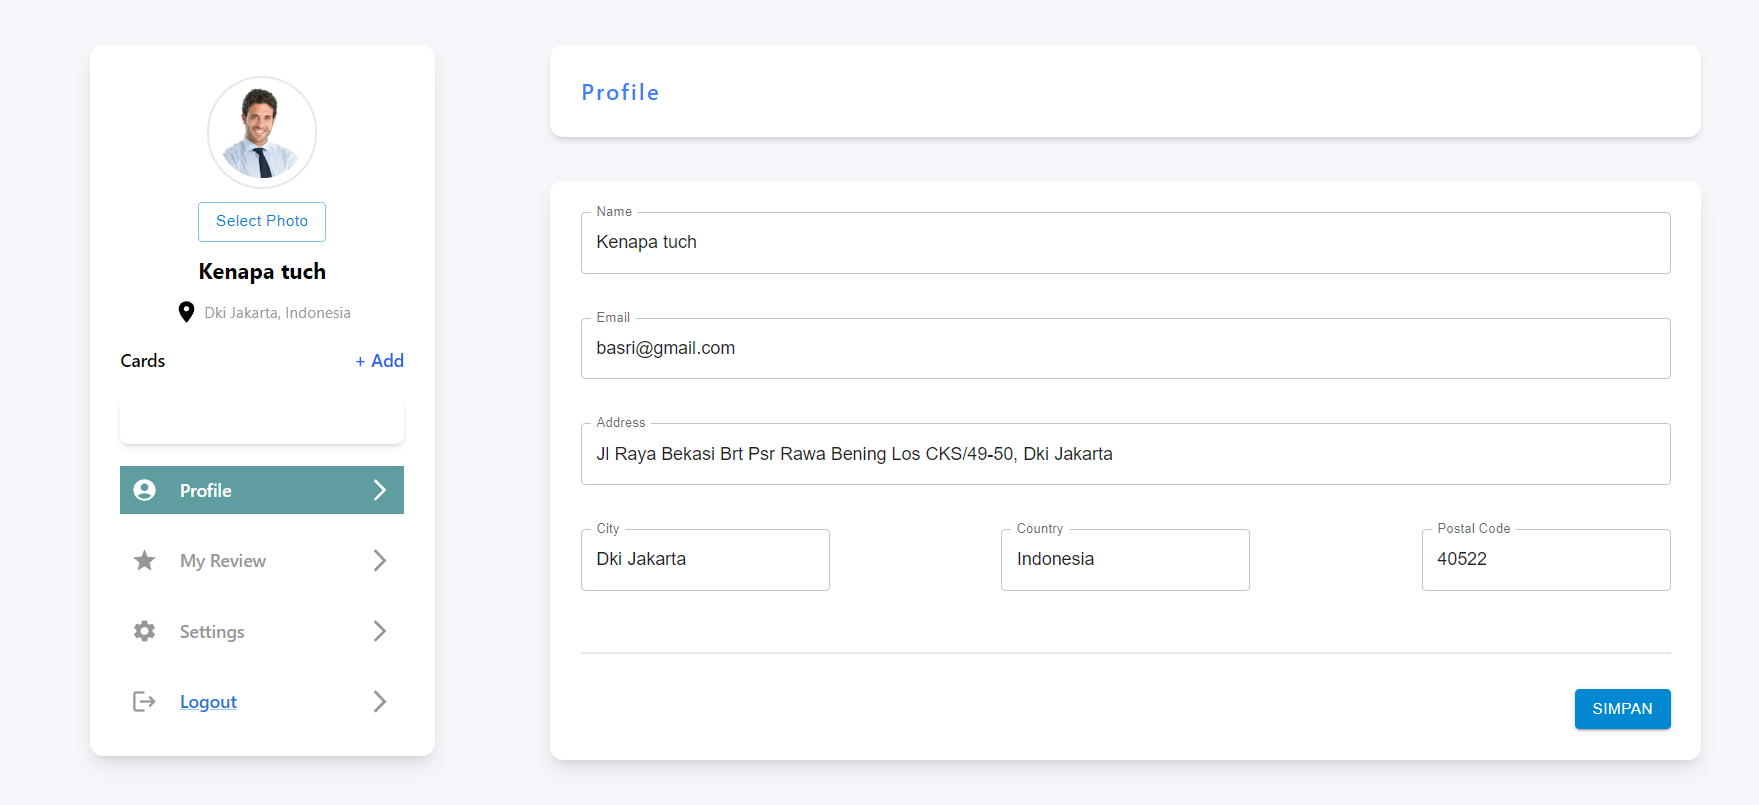
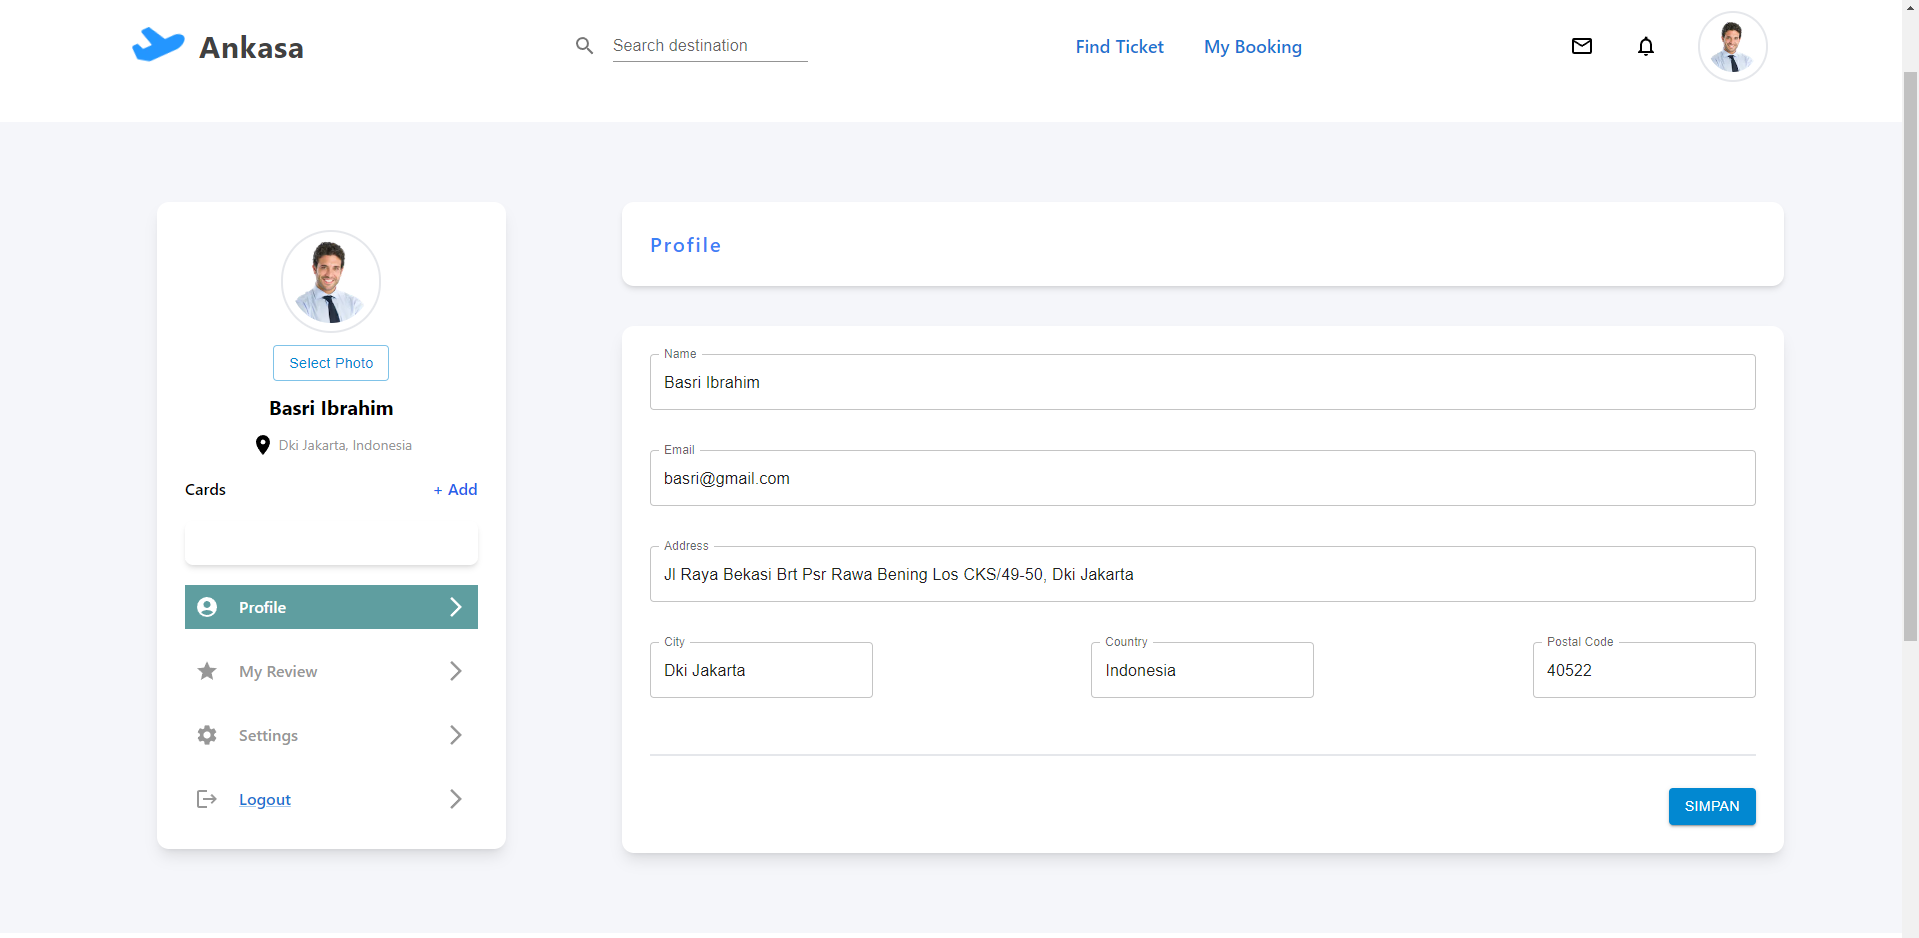
fix screenshot

diff --git a/src/pages/user/profile.jsx b/src/pages/user/profile.jsx
@@ -97,7 +97,7 @@ const Profile = () => {
 
   return (
     <Layout>
-        <UserNavbar photo={updatePhoto}/>
+       
             {cookies.token ? isLoading ? <div>Loading...</div> :
             <div className='p-20 mt-10 flex justify-around' style={{backgroundColor:'#F5F6FA'}}>
                 <UserComponent profileColor={{ color: 'white', padding: 10, backgroundColor: 'cadetblue' }} photoPreview={photoPreview} handlePhoto={handlePhoto}/>
@@ -125,7 +125,6 @@ const Profile = () => {
 
         </div>
             : router.push('auth/login') }
-        <Footer/>
     </Layout>
   )
 }
